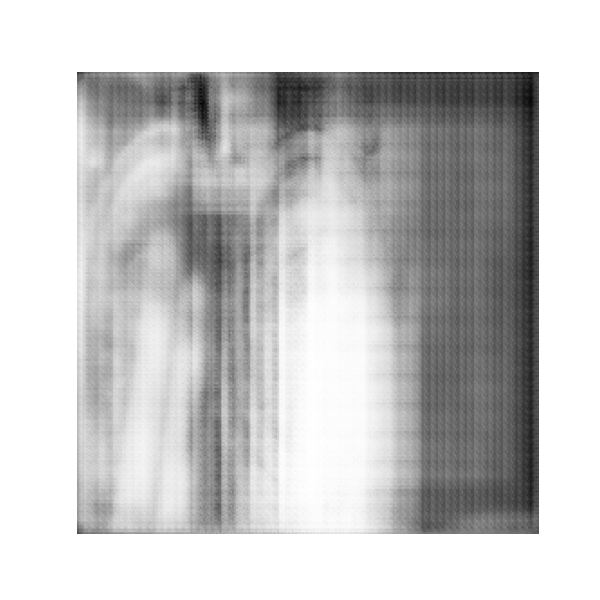
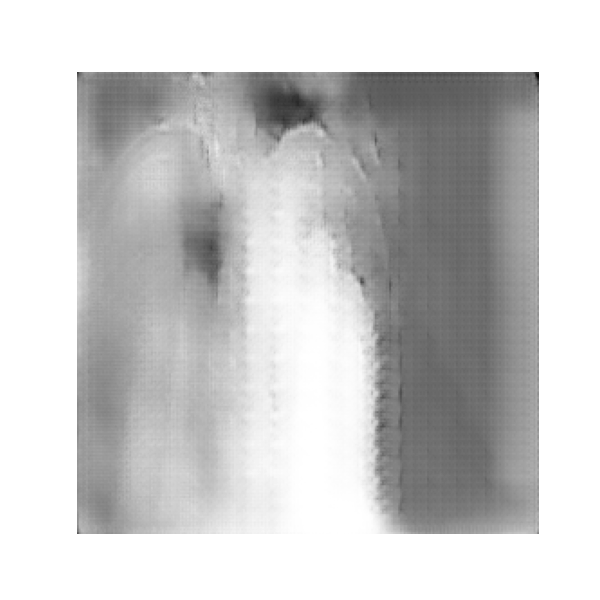
10k iteration

diff --git a/pix2pix.py b/pix2pix.py
@@ -377,7 +377,7 @@ def fit(train_ds, test_ds, steps):
       checkpoint.save(file_prefix=checkpoint_prefix)
 
 
-fit(train_lx_rx_y, test_lx_rx_y, steps=1000)
+fit(train_lx_rx_y, test_lx_rx_y, steps=10000)
 example_input, example_target = next(iter(test_lx_rx_y.take(1)))
 
 plt.figure(figsize=(6, 6))
